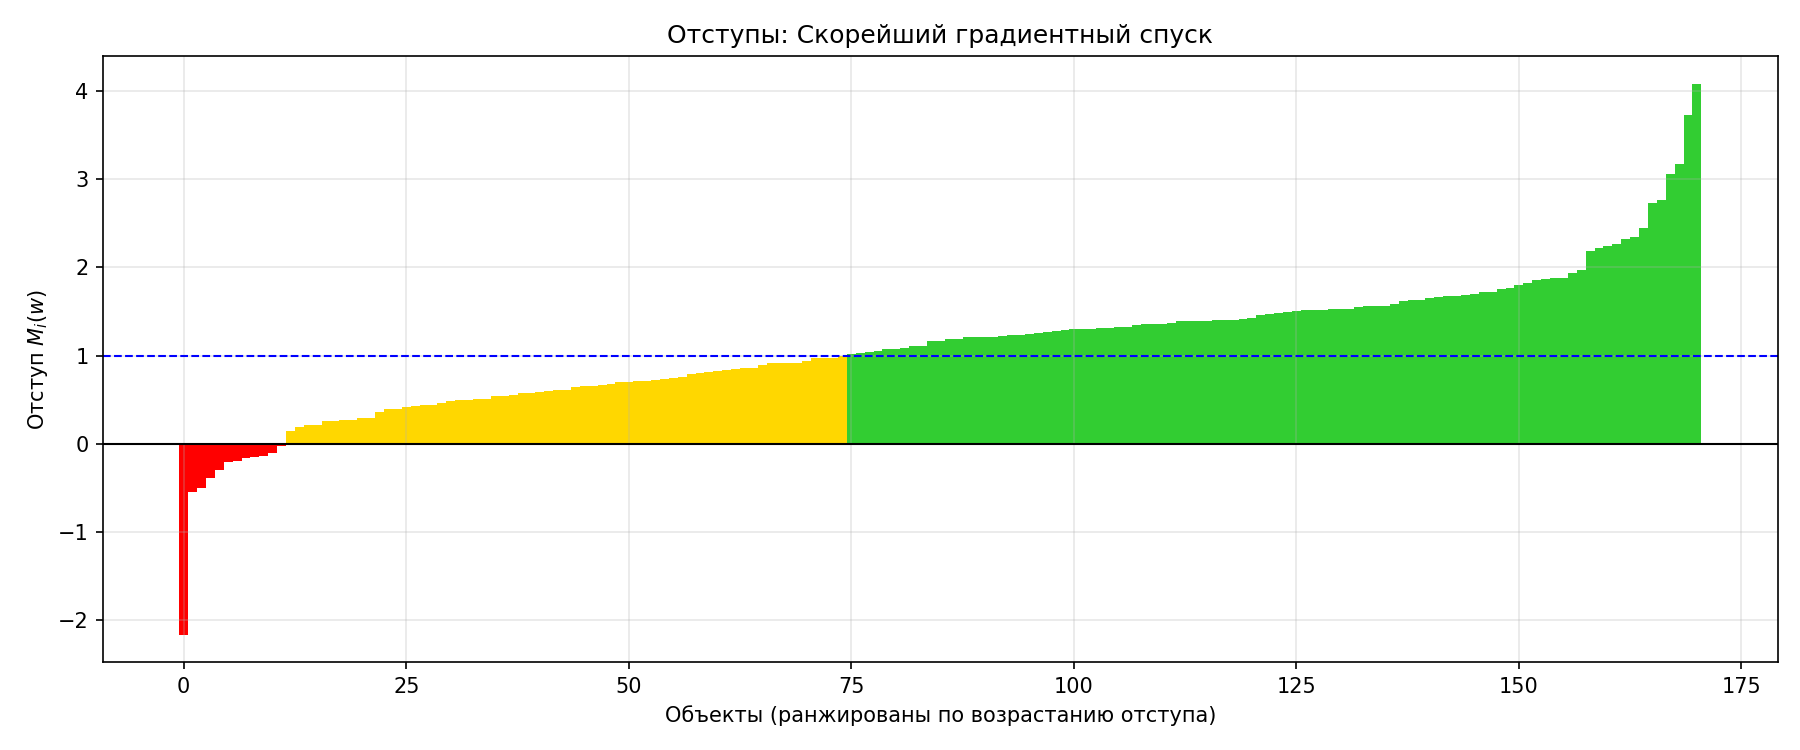
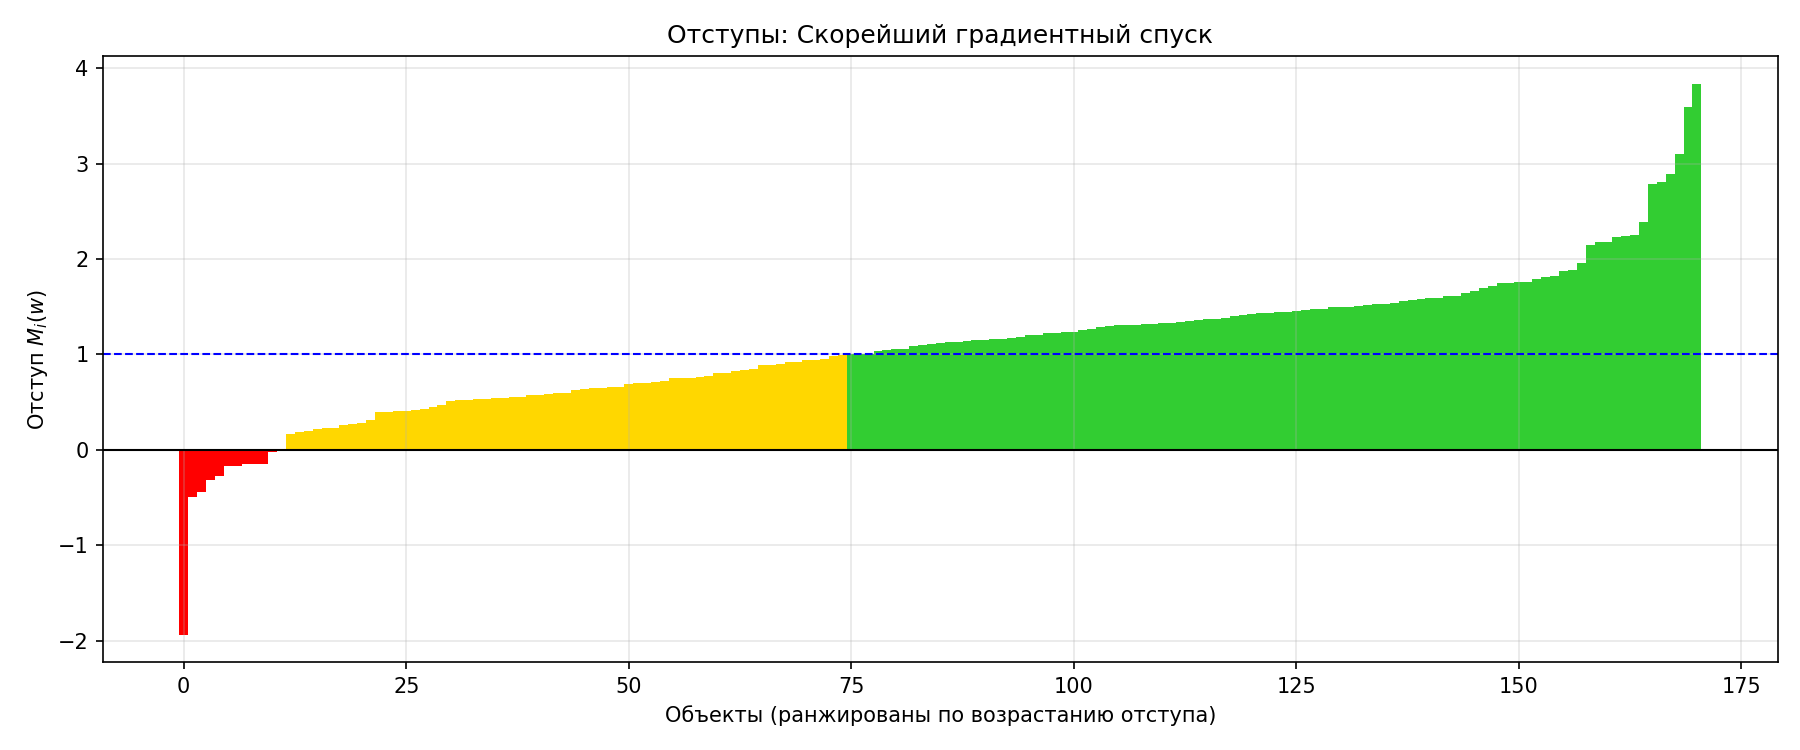
fix: optimal step

diff --git a/students/murinov_av/lab1/source/models.py b/students/murinov_av/lab1/source/models.py
@@ -201,7 +201,7 @@ class FastestGradientDescentClassifier(BaseLinearClassifier):
             for idx in rng.permutation(n):
                 grad_w, grad_w0, M = _compute_gradient(X, y, w, w0, idx, self.reg_tau)
 
-                h_star = 1.0 / (np.dot(X[idx], X[idx]) + 1e-8)
+                h_star = 1.0 / (np.dot(X[idx], X[idx]) + 1)
 
                 w -= h_star * grad_w
                 w0 -= h_star * grad_w0

diff --git a/students/murinov_av/lab1/README.md b/students/murinov_av/lab1/README.md
@@ -77,17 +77,17 @@
 
 ### 3. Скорейший градиентный спуск
 
-Оптимальный шаг для каждого объекта: `h* = 1 / (||x_i||²)`
+Оптимальный шаг для каждого объекта: `h* = 1 / (||x_i||² + 1)`
 
 | Метод | Accuracy | ROC-AUC | F1 | Ошибок |
 |---|---|---|---|---|
 | SGD с постоянным шагом | 0.9415 | 0.9914 | 0.9550 | 10 |
-| Скорейший спуск | 0.9298 | 0.9782 | 0.9459 | 12 |
+| Скорейший спуск | 0.9357 | 0.9796 | 0.9507 | 11 |
 
 ![Отступы (скорейший спуск)](reports/fastest_gradient_descent_margins.png)
 ![Кривая качества (скорейший спуск)](reports/fastest_gradient_descent_quality.png)
 
-**Вывод:** Скорейший спуск работает **хуже** обычного SGD.
+**Вывод:** Скорейший спуск работает немного хуже обычного SGD.
 
 ### 4. Мультистарт (7 запусков)
 
